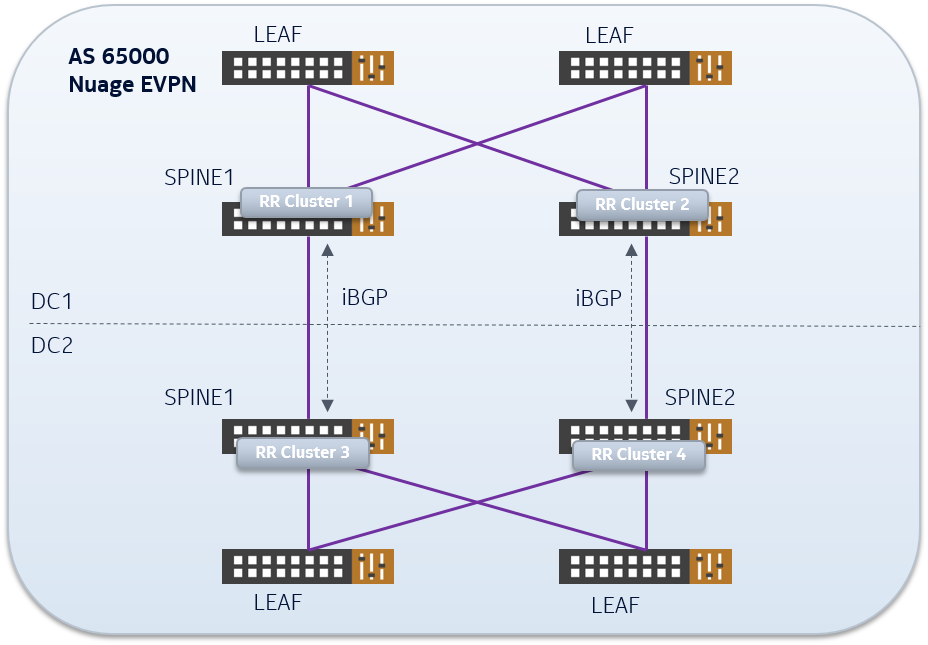
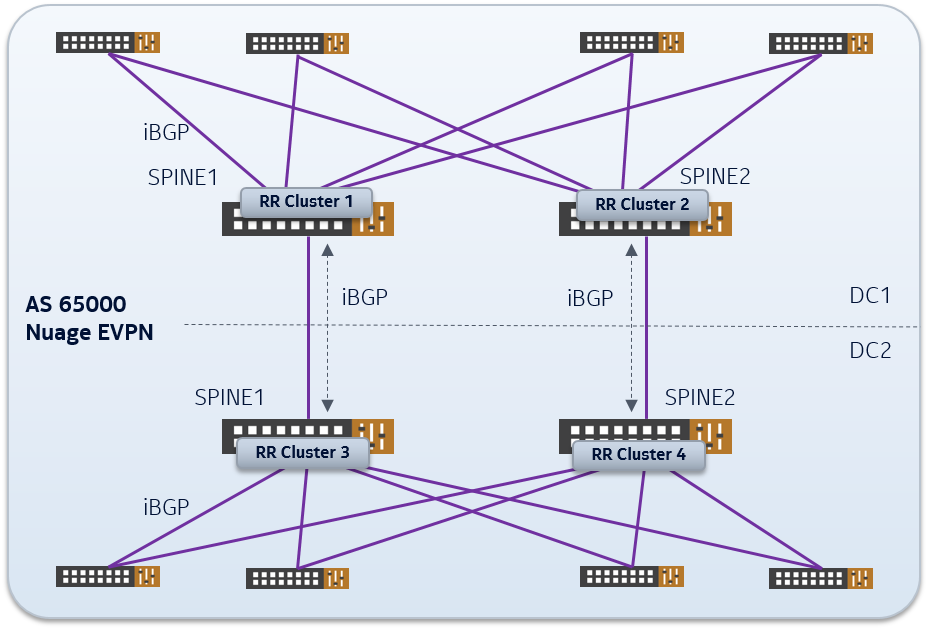
Post-MultiDCNetworking - Updated post and cleaned up diagrams

diff --git a/_posts/2017-09-17-MultiDC-Networking.md b/_posts/2017-09-17-MultiDC-Networking.md
@@ -4,78 +4,75 @@ title: Stretching networks between datacenters
 author: Burkhard Germer
 callout_image: nuage-community-header.jpg
 tags: nuage vsd vsc bgp federation dcgw 7750 sros
-excerpt: With Nuage Networks you can create very flexible network designs that span multiple datacenters. This blog explains what design choices you have to interconnect datacenters while still providing a single layer-2 network context to end-users.
+excerpt: With Nuage Networks you can create very flexible network designs that span multiple datacenters. This blog explains what design choices you have to interconnect datacenters using VXLAN while still providing a single layer-2 network context to end-users.
 ---
 
 
 # Introduction
 
 Quite often, it is desirable to deploy applications across datacenters. Those applications might be ok with a routed connectivity model, but there are also situations where a layer-2 connection model is desired. As an example:
-- clustered applications might require a shared virtual IP
+- Clustered applications such as database or firewall clusters rely on a shared virtual IP.
 - Mobility of VMs is desired across DCs. Preservation of IP address and network context is required here. In the case of VMware estate, this is implemented through VMotion within a (Metro-)cluster, or even across clusters.
-- Disaster-recovery situations where it is undesirable to restore the VM with a different IP
+- Disaster-recovery strategies where it is desirable to restore the VM with the same IP in a different datacenter.
 
-The examples above equally apply to virtual machines and to bare metals.
-
-This blog explains a few ways how to interconnect various Data Centers, and also elaborates on how to interwork with 3rd Party Gateways (or generally Gateways which are not controlled by Nuage VSD, as it could also be a Nokia DC Gateway Router (Nokia Service Router).
+This blog explains a few ways how to interconnect your datacenters, and also elaborates on how to expose the application externally using a datacenter gateway (DCGW).
 The assumption is that each DC is built in a leaf-spine topology based on Nuage Networks VSG or 210WBX, with eBGP sessions running between leaf/spine.
 
 A follow-up blog will then cover more specifically on how to dynamically configure a stretched service on Nokia SROS.
 
 
 # DC Interconnection via VXLAN
-To enable a stretched layer-2 context, the "fabric" of "underlay network" can be simply extended across 2 or more DCs. The most optimal way how to achieve connectivity between DCs may differ on size of DCs as well as fiber availability, and shall be described in further part of chapter. We distinguish basically between two cases, closely located DCs and remote DCs.
+To enable a stretched layer-2 overlay service, the "IP fabric" of "underlay network" can simply be extended across 2 or more datacenters. The most optimal way how to achieve connectivity between datacenters may differ on the size and fiber availability, and shall be described in further part of chapter. We distinguish basically between two cases, closely located DCs and remote DCs.
 
 ## Closely located DC
 The most common example of this use case are _Twin DCs_. Twin DCs are defined as two datacenters that have been built close to each other, with the idea of providing geo-resilience while exposing them as 1 logical entity to the application owners.  The most cost effective way to interconnect such closely-located (large) Data Centers is to interconnect the Spine Layer via available fiber or DWDM transport. In that case the IP underlay is simply extended between two or more sites. An example is given in the following picture, in which the underlay network is designed using eBGP.
 
 ![DC underlay interconnect on Spine level][TwinDCUnderlay]
 
-Note: the AS numbers given in the above pictures are pure examples.
+Note: the AS numbers given in the above pictures are pure examples, whereby an overlapping scheme is adopted as per [RFC 7938](https://tools.ietf.org/html/rfc7938)
 
-eBGP sessions which are already used between Spine and Leaf layer in each DC are used as well between Spine layer between DCs.
-eBGP is used to advertise the following information:
+eBGP sessions are setup point-to-point between spine and leaf layer in each DC and between the spines layers.
+It is used to advertise the following information:
 * System loopbacks
 * Multichassis VTEP
 * External networks connected to the fabric underlay
 
-From an overlay perspective, the EVPN domain is simply extended across both DCs.
+From an overlay perspective, any EVPN domain is simply extended across both DCs with routes exchanged over iBGP sessions, and configuring the spines as route-reflector.
 
 ![DC interconnect overlay networking][TwinDCOverlay]
 
 ## Extension to Remote or Small DCs
-For remote Data Centers the option of dedicated fiber connectivity or DWDM channel may not exist or is too costly. Therefore we would recommend to interconnect such remote DC by the use of a so-called "infrastructure" VPN on a IP-VPN backbone, which will provide the separated underlay transport over a potential global network. A schematic picture is shown below.
+For remote datacenters the option of dedicated fiber connectivity or DWDM channel may not exist or is too costly. Therefore we would recommend to interconnect such remote DC by the use of a so-called "infrastructure" VPN on a IP-VPN backbone, which will provide separated underlay transport over a potential global network. A schematic picture is shown below.
 
 ![Infrastructure VPN for remote DCs][RemoteDCUnderlay]
-Note: picture above only shows connection into the 3rd DC, simply for better visibility. Likewise it would be for Duebendorf. As all connections are IP, routing happen on shortest path.
 
-In this case the IP-fabric of the DCs get connected across the backbone in a dedicated transport IP VPN. Connectivity from the DC towards the backbone can either be realized by the use of the Border-Leaf switch as shown in the example in the main DC or directly from the Spine switch as shown in the remote DC.
-In both cases some ports of Border-Leaf/Spine will be connected towards the CE router as pure IP/router ports (no VTEPs), thus extending the underlay IP connectivity. Whether to connect from border-leaf or from spine depends on the expected north-south traffic and horizontal scale-out desired. So some capacity planning is required here.
+In this case the IP-fabric of the DCs gets extended across the IP-VPN backbone in a dedicated transport VPN. Connectivity from the DC towards the backbone can
+* be realized by the use of the Border-Leaf switch as shown in the example in the main DC, or
+* be directly from the Spine switch as shown in the remote DC.
+
+Whether to connect from border-leaf or from spine depends on the expected north-south traffic and horizontal scale-out desired. So some capacity planning is required here.
+
+In both cases some ports of Border-Leaf/Spine will be connected towards the CE router as pure IP/router ports (no VTEPs), thus extending the underlay IP connectivity.
 
 ## Deployment of Nuage VSD in distributed DC environment
 
-When it comes to distributed DC environments, one could
-* Deploy a VSD cluster in each DC. This is typically done for very large or geographically dispersed DCs where each VSD Cluster programs its local VSCs and/or fabric elements.
-* Deploy a single VSD cluster, with each DC just hosting a set of VSCs. IP reachability from the VSD servers to all DCs is assumed to program the VSCs and/or fabric elemenets. A standby VSD cluster could be deployed to get a geo-resilient management plane.
-* Span a VSD cluster across multiple physical sites. This requires closely located datacenters (&ltsp; 10ms) so transcactions can be committed in a timely fashion.
-
-In all three cases, a stretched overlay network is established through a BGP federation between VSCs and/or route-reflectors.
+When it comes to distributed DC environments, one could deploy a global VSD instance or a VSD instance per site. In both cases, a stretched overlay network is established through a BGP federation between VSCs and/or route-reflectors.
 
 # Service handoff to a DC Gateway Router
 
-This section shall explain the possibilities when non-Nokia routers are used as Enterprise Backbone Router, or if Nokia Routers are used, but not controlled via Nuage VSD. It is specifically targeted for Service handoff to the router to allow customer access to the DC services. Interconnection to Gateway router for extending the fabric has been discussed in previous chapter.
+This section shall explain how to hand off traffic from an overlay service to an external network. Basically the interaction (or peering) can be realized by a gateway router that is integrated from a BGP-EVPN/VXLAN perspective, or it can be an independent (3rd party) router.
 
 ## Breakout from Nuage fabric to 3rd party Gateway Router
 
-We assume that the Gateway Router will not be able to handle VXLAN-encapsulated traffic. As such we need a VTEP to terminate/initiate VXLAN tunnels, and that can be controlled by Nuage VSD. The natural instance is the Border Leaf Switch which can provide a plain Ethernet/VLAN/IP interface towards the Gateway Router per datacenter service.
+Assuming the Gateway Router will not be able to handle VXLAN-encapsulated traffic, we need a VTEP to terminate/initiate VXLAN tunnels that can be controlled by Nuage VSD. The natural instance is the Border Leaf Switch which can provide a plain Ethernet/VLAN/IP interface towards the Gateway Router per datacenter service.
 
 ![Service interworking to Gateway Router][DCGWInterworking]
 
-From the border leaf switches there will be Virtual Tunnel Endpoints (VTEPs) towards the two routers connecting the DC. Multiple physical or logical (VLAN) interfaces may be used to hand over different VPNs in the DC towards the backbone. Those VPNs could be L3 or L2 VPNs.
+The border leaf switches are connected to the two routers that stitch the DC on the core network. Multiple physical or logical (VLAN) interfaces may be used to hand over different VPNs in the DC towards the backbone. Those VPNs could be L3 or L2 VPNs.
 
 ### L3 Service breakout
 
-For each Layer-3 Service the VTEP(s) on the Border-Leafs would need to have a kind of Inter-AS option A interworking towards the router. This means for each service a logical interface needs to be configured on both sides. Also routing has to be setup between the two entities: either via a BGP PE-CE configuration or via static-routing.
+For each Layer-3 Service the VTEP(s) on the Border-Leafs can be configured with a Inter-AS option A interworking towards the router. This means for each service a logical interface needs to be configured on both sides. Also routing has to be setup between the two entities: either via a BGP PE-CE configuration or via static-routing.
 
 If the same L3 VPN is connected to the routers in multiple DCs, optimal routing from the outside back into the DC can be achieved by advertizing host routes from the gateway routers into the backbone. This is not always possible or desirable as the total number of endpoints could be rather high. As such, subnet-based advertizement could be considered. Suppression of host-routes could be configured dynamically out of Nuage VSD or manually on the gateway routers. The implication is obviously that inter-DC routing would happen in the overlay (VXLAN) domain, using the interconnectivity as described in previous section.
 
@@ -83,34 +80,38 @@ If the same L3 VPN is connected to the routers in multiple DCs, optimal routing 
 
 For each Layer-2 Service the VTEPs on the border leaf will provide a VLAN towards the Gateway Routers. No special communication protocol to advertise MAC-addresses is needed. MAC learning will be based on flood & learn just like in any Layer-2 network.
 
-To ensure all links are used between border leafs and gateway routers, two Border-Leaf switches can be paired in an Multi-Chassis setup running a link-aggregated-group (LAG) combining links of both switches. LACP then can be configured as control plane protocol. Alternative mechanisms protocols could be considered, depending on support of the 3rd party gateway (eg BGP Multi-homing or EVPN multi-homing). Most important is to prevent loops.
+To ensure all links are used between border leafs and gateway routers, two Border-Leaf switches can be paired in an Multi-Chassis setup running a link-aggregated-group (LAG) combining links of both switches. LACP then can be configured as control plane protocol. Alternative mechanisms protocols could be considered, depending on support of the 3rd party gateway (eg BGP Multi-homing or EVPN multi-homing). Most important is to have mechnisms in place to prevent (or block) loops.
 
 If the Gateway does not support forwarding across multiple systems and/or across multiple links, only a single border leaf might be forwarding in the worst case across a multi-DC environment.
 
 ## Using Nokia Service Router as Datacenter Gateway
 
-Using the Nokia Service Router as DC Gateway allows for the direct termination of VXLAN on the router, and to run BGP/EVPN to the Nuage VSC.
+Using the Nokia Service Router as DC Gateway allows for the direct termination of VXLAN on the router, and to run BGP-EVPN to the Nuage VSC.
 It has as advantage:
 * Single interface provisioning between border leaf and DCGW to carry the VXLAN and BGP traffic
 * Single BGP session to configure, to control and to monitor, instead of running a session per service
-* Sub-optimatal traffic patterns due to loop prevention or unknown prefix location can quite easily be solved. At both L2 and L3 level, each Nokia 7750SR can act as independent forwarder. This stems from the fact that the information of the exact "position" of each endpoint (the Leaf switch or hypervisor) is known to the DCGW. It could then advertise host-routes or MAC-addresses into the backbone. Assuming proper routing policies, there would always be optimal routing into the backbone.
+* Sub-optimal traffic patterns due to loop prevention or unknown prefix location can quite easily be solved:
+  * All links between fabric and Nokia SR can be used, since the fabric-to-dcgw are configured as ECMP links
+  * (incoming) Since Nokia SR learns the next-hop of each overlay end point, it can advertize host-routes or MAC addresses into the backbone network.
+  * (outgoing) By using BGP selection criteria, preference can be signaled to Nuae VSC on what the outgoing gateway router should be. If no specific configuration is done, then ECMP will be used between VRS adn DCGW.
+
 Furthermore, Nokia has implemented mechanisms so that all DC Gateways - even when geographically dispersed, can actively forward packets back into the DC in both L2 and L3 cases. This is very different from a traditional STP or L2/L3 mechanism where only a single device is active forwarder.
 
 ### Managing the Nokia Service Router out of VSD
 
-When using Nokia 7750SR as datacenter gateway, provisioning can be further simplified by putting the SR under the management authority of the VSD. 
- 
+When using Nokia SR as datacenter gateway, provisioning can be further simplified by putting the SR under the management authority of the VSD.
+
 The complete service context for any new L2VPN or L3VPN in the DC can be automatically configured on the Nokia Service Router, including all interfaces which are needed from the Gateway to the outside world. This can happen as soon as a L2 or L3 domain is created in the VSD.
 
 # Other DC Interconnection mechanisms
 
-While EVPN/VXLAN is probably the easiest method to create a DC interconnection, some cloud providers prefer to model each DC independently, and even allow overlapping IP address space. In those environments, a BGP federation cannot be established across sites, and each VXLAN needs effective termination at the datacenter gateway. Within the backbone/core, MPLS or even plain routing in multiple VRFs can be used.
+While EVPN/VXLAN is probably the easiest method to create a DC interconnection, some cloud providers prefer to model each DC independently, and even allow overlapping IP address space between datacenters.
 
-There are a number of techniques and best practices to follow in this model, but this is outside the scope of this blog.
+In those environments, a BGP federation cannot be established across sites, and each VXLAN needs effective termination at the datacenter gateway. Within the backbone/core, BGP-EVPN using MPLS or VXLAN can be used, or even plain routing in multiple VRFs. There are a number of techniques and best practices to follow in this model, but this is outside the scope of this blog.
 
 # What's next ?
 
-This blog has covered how you can setup networks that stretch multiple datacenters using the Nuage VSP solution. It primarily focused on using VXLAN as interconnection protocol, and how you can connect each DC to the outside world with a Nokia Service Router or with a third party datacenter gateway.
+This blog has covered how you can setup overlay networks that stretch multiple datacenters using the Nuage VSP solution. It primarily focused on using VXLAN as interconnection protocol, and how you do a service hand-off to a 3rd party or Nokia datacenter gateway.
 
 In the next blog, we will demonstrate what configuration is required on a Nokia Service Router to have it interact with Nuage VSC. It will also cover how you can use _dynamic service provisioning_ to automate such extension, tackling this both from a Nuage VSD UI perspective and by using Ansible playbooks.
 
@@ -119,3 +120,4 @@ In the next blog, we will demonstrate what configuration is required on a Nokia 
 [TwinDCOverlay]: {{ site.baseurl}}/img/posts/MultiDCNetworking/TwinDCOverlay.png
 [RemoteDCUnderlay]: {{ site.baseurl}}/img/posts/MultiDCNetworking/RemoteDCUnderlay.png
 [DCGWInterworking]: {{ site.baseurl}}/img/posts/MultiDCNetworking/DCGWInterworking.png
+
